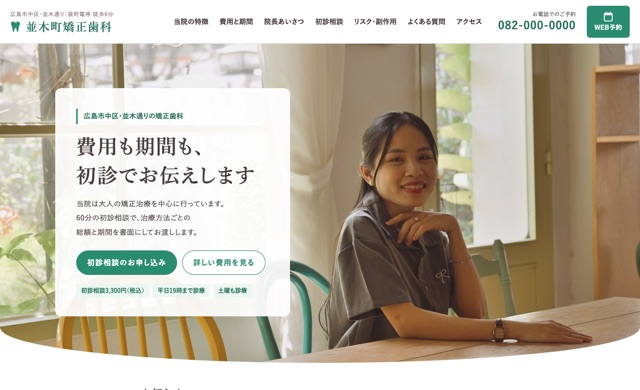
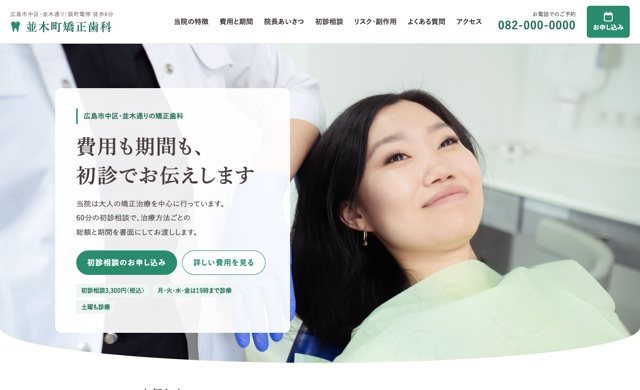
矯正歯科の見本を出し直す

diff --git a/lp-samples/sample7/index.html b/lp-samples/sample7/index.html
@@ -5,11 +5,11 @@
 <meta name="robots" content="noindex, nofollow">
 <meta name="viewport" content="width=device-width, initial-scale=1">
 <title>並木町矯正歯科｜広島市中区・並木通り 大人の矯正</title>
-<meta name="description" content="広島市中区・並木通りの矯正歯科。大人の矯正を中心に、初診相談（60分・3,300円）で、治療方法ごとの総額と期間を書面にしてお渡しします。平日19時まで・土曜も診療。袋町電停から徒歩6分。">
+<meta name="description" content="広島市中区・並木通りの矯正歯科。大人の矯正を中心に、初診相談（60分・3,300円）で、治療方法ごとの総額と期間を書面にしてお渡しします。月・火・水・金は19時まで、土曜も診療。袋町電停から徒歩6分。">
 <meta property="og:type" content="website">
 <meta property="og:site_name" content="並木町矯正歯科">
 <meta property="og:title" content="並木町矯正歯科｜広島市中区・並木通り 大人の矯正">
-<meta property="og:description" content="費用も期間も、初診の日に。平日19時まで・土曜も診療の矯正歯科です。">
+<meta property="og:description" content="費用も期間も、初診の日に。月・火・水・金は19時まで、土曜も診療の矯正歯科です。">
 <meta name="twitter:card" content="summary_large_image">
 <link rel="icon" href="https://cdn.jsdelivr.net/npm/@fortawesome/fontawesome-free@6.7.2/svgs/solid/tooth.svg" type="image/svg+xml">
 <link rel="stylesheet" href="https://cdnjs.cloudflare.com/ajax/libs/font-awesome/6.7.2/css/all.min.css" integrity="sha512-Evv84Mr4kqVGRNSgIGL/F/aIDqQb7xQ2vcrdIwxfjThSH8CSR7PBEakCr51Ck+w+/U6swU2Im1vVX0SVk9ABhg==" crossorigin="anonymous" referrerpolicy="no-referrer">
@@ -21,8 +21,8 @@
 </script>
 <style>
 /* 字と余白は、矯正歯科の実在113件の実測と、手本にした医院の数値から採った。
-   本文はゴシック16px・行間1.9、節の題は明朝33px・細字で下に英字、特徴は写真を大きく左右に振って英字を薄く重ねる。
-   上部に診療時間の表と案内図の札を置き、WEB予約は緑の四角いボタン。 */
+   本文はゴシック16px・行間1.9、節の題は明朝33px・細字で下に英字、特徴は写真を大きく左右に振る。
+   上部に診療時間の表と案内図の札を置き、初診相談のお申し込みは緑の四角いボタン。 */
 :root{
   --text:#3a3232;--head:#493f3f;--mute:#766c6c;--line:#e1e6e3;--bg:#fff;--mint:#eef6f2;--mint-d:#dcefe6;
   --green:#2a8c6e;--green-d:#1f6d55;--gold:#b69a5a;
@@ -107,8 +107,10 @@ ul,ol{padding:0;list-style:none}
 .TopInfo__tel a{text-decoration:none}
 .TopInfo__btns{display:grid;grid-template-columns:1fr 1fr;gap:10px;margin-top:16px}
 .TopInfo__btns .comBtn{min-width:0;padding:12px 10px;font-size:14px;border-radius:30px}
-.TopInfo__map{position:relative;background:#e9efec}
-.TopInfo__map iframe{display:block;width:100%;height:100%;min-height:360px}
+/* 地図が読み込まれない時に灰色の箱だけが残らないよう、iframeの下に最寄りの電停を敷く */
+.TopInfo__map{position:relative;min-height:360px;background:#e9efec}
+.TopInfo__map iframe{position:absolute;inset:0;display:block;width:100%;height:100%}
+.TopInfo__mapAlt{position:absolute;left:0;right:0;top:50%;transform:translateY(-50%);padding:0 20px;text-align:center;font-size:14px;color:var(--mute)}
 
 /* お悩み */
 .TopWorry__list{display:grid;grid-template-columns:1fr 1fr;gap:12px 30px;max-width:900px;margin:0 auto}
@@ -116,10 +118,10 @@ ul,ol{padding:0;list-style:none}
 .TopWorry__list a{display:block;padding:14px 44px 14px 50px;text-decoration:none}
 .TopWorry__list a:hover{color:var(--green-d)}
 .TopWorry__list a::after{content:"\f054";position:absolute;right:20px;top:50%;transform:translateY(-50%);font:900 12px/1 "Font Awesome 6 Free";color:var(--green)}
-.TopWorry__list li::before{content:"\f058";position:absolute;left:18px;top:19px;font:900 18px/1 "Font Awesome 6 Free";color:var(--green)}
+.TopWorry__list li::before{content:"\f059";position:absolute;left:18px;top:19px;font:900 18px/1 "Font Awesome 6 Free";color:var(--green)}
 .TopWorry__end{text-align:center;margin-top:30px;font-family:var(--mincho);font-size:22px;color:var(--head)}
 
-/* 当院の特徴。写真を大きく、英字を薄く重ねる */
+/* 当院の特徴。写真を大きく左右に振る */
 .TopFeature__item{position:relative;display:grid;grid-template-columns:58% 1fr;align-items:center;margin-bottom:90px}
 .TopFeature__item:nth-child(even){grid-template-columns:1fr 58%}
 .TopFeature__item:nth-child(even) .TopFeature__photo{order:2}
@@ -128,7 +130,6 @@ ul,ol{padding:0;list-style:none}
 .TopFeature__item:nth-child(even) .TopFeature__photo img{border-radius:24px 0 0 24px}
 .TopFeature__photo::after{content:"";position:absolute;left:30px;right:-30px;top:30px;bottom:-30px;z-index:-1;background:var(--mint-d);border-radius:0 24px 24px 0}
 .TopFeature__item:nth-child(even) .TopFeature__photo::after{left:-30px;right:30px;border-radius:24px 0 0 24px}
-.TopFeature__word{position:absolute;left:24px;bottom:10px;font-family:var(--en);font-size:62px;line-height:1;color:rgba(255,255,255,.85);text-shadow:0 1px 14px rgba(0,40,40,.45)}
 .TopFeature__body{padding:0 50px}
 .TopFeature__no{display:block;font-family:var(--en);font-size:18px;letter-spacing:.2em;color:var(--gold)}
 .TopFeature__no b{font-size:64px;font-weight:500;line-height:1;color:var(--mint-d);margin-left:6px}
@@ -278,7 +279,6 @@ ul,ol{padding:0;list-style:none}
   .TopFeature__item:nth-child(even) .TopFeature__photo{order:0}
   .TopFeature__photo::after{display:none}
   .TopFeature__photo img,.TopFeature__item:nth-child(even) .TopFeature__photo img{border-radius:16px}
-  .TopFeature__word{font-size:40px}
   .TopFeature__body{padding:24px 20px 0}
   .TopPrice__plans,.TopFlow,.TopPrice__photos,.TopFlow__photos{grid-template-columns:1fr}
   .TopPrice__common th,.TopPrice__common td{display:block;width:auto;border-top:0}
@@ -331,20 +331,20 @@ h1,h2,h3{text-wrap:balance}
       <a href="#access">アクセス</a>
     </nav>
     <p class="header__tel">お電話でのご予約<b><a href="tel:0820000000">082-000-0000</a></b></p>
-    <a class="header__webBtn" href="#reserve"><i class="fa-regular fa-calendar" aria-hidden="true"></i>WEB予約</a>
+    <a class="header__webBtn" href="#reserve"><i class="fa-regular fa-calendar" aria-hidden="true"></i>お申し込み</a>
     <button class="header__menuBtn" type="button" aria-label="メニュー" aria-expanded="false" aria-controls="gnav"><i class="fa-solid fa-bars" aria-hidden="true"></i></button>
   </div>
 </header>
 
 <main id="top">
 <section class="TopMv">
-  <img src="img/hero_smile.jpg" alt="窓辺の女性の笑顔" fetchpriority="high">
+  <img src="img/hero_smile.jpg" alt="診療台の患者さんと歯科医師" fetchpriority="high">
   <div class="TopMv__box">
     <p class="TopMv__tag">広島市中区・並木通りの矯正歯科</p>
     <h1>費用も期間も、<br>初診でお伝えします</h1>
     <p class="TopMv__lead">当院は大人の矯正治療を中心に行っています。<span class="nw">60分</span>の初診相談で、治療方法ごとの総額と期間を書面にしてお渡しします。</p>
     <div class="TopMv__btns"><a class="comBtn" href="#reserve">初診相談のお申し込み</a><a class="comBtn comBtn--line" href="#price">詳しい費用を見る</a></div>
-    <ul class="TopMv__badges"><li>初診相談3,300円（税込）</li><li>平日19時まで診療</li><li>土曜も診療</li></ul>
+    <ul class="TopMv__badges"><li>初診相談3,300円（税込）</li><li>月・火・水・金は19時まで診療</li><li>土曜も診療</li></ul>
   </div>
 </section>
 
@@ -352,7 +352,7 @@ h1,h2,h3{text-wrap:balance}
   <h2><span>NEWS</span>お知らせ</h2>
   <ul class="fade">
     <li><time datetime="2026-08-17">2026.08.17</time><em>休診</em><p><span class="nw">9月14日</span>（月）は休診します。</p></li>
-    <li><time datetime="2026-07-30">2026.07.30</time><em>設備</em><p>口腔内<span class="nw">スキャナー</span>を導入しました。従来の印象材を使わず、歯の形を読み取ります。</p></li>
+    <li><time datetime="2026-07-30">2026.07.30</time><em>設備</em><p>口腔内<span class="nw">スキャナー</span>を導入しました。精密検査で行う歯列の<span class="nw">スキャン</span>に、この機器を使います。</p></li>
     <li><time datetime="2026-07-02">2026.07.02</time><em>休診</em><p><span class="nw">8月13日</span>（木）から<span class="nw">8月16日</span>（日）まで休診します。</p></li>
     <li><time datetime="2026-06-10">2026.06.10</time><em>診療</em><p>平日の夕方にも初診相談の枠を設けました。</p></li>
   </ul>
@@ -370,11 +370,12 @@ h1,h2,h3{text-wrap:balance}
             <tr><th scope="row">14:30〜19:00</th><td class="on">●</td><td class="on">●</td><td class="on">●</td><td class="off">―</td><td class="on">●</td><td class="on">〜17:00</td><td class="off">―</td></tr>
           </tbody>
         </table>
-        <p class="TopInfo__note">休診日は木曜日・日曜日・祝日です。土曜の午後は17時までです。</p>
+        <p class="TopInfo__note">最終受付は診療終了の<span class="nw">30分</span>前（初診相談は<span class="nw">1時間</span>前）です。</p>
         <p class="TopInfo__tel"><span>お電話</span><b><a href="tel:0820000000">082-000-0000</a></b></p>
-        <div class="TopInfo__btns"><a class="comBtn" href="#reserve">初診相談のWEB予約</a><a class="comBtn comBtn--line" href="#access">アクセス</a></div>
+        <div class="TopInfo__btns"><a class="comBtn" href="#reserve">初診相談のお申し込み</a><a class="comBtn comBtn--line" href="#access">アクセス</a></div>
       </div>
       <div class="TopInfo__map">
+        <p class="TopInfo__mapAlt">広島電鉄・袋町電停から徒歩<span class="nw">6分</span></p>
         <iframe src="https://www.google.com/maps/embed?pb=!1m18!1m12!1m3!1d3292.3917492749156!2d132.45181708885497!3d34.3913874!2m3!1f0!2f0!3f0!3m2!1i1024!2i768!4f13.1!3m3!1m2!1s0x355aa21273dbe56b%3A0x762c82653c8756de!2z6KKL55S66aeF!5e0!3m2!1sja!2sjp!4v1790602644900!5m2!1sja!2sjp" width="600" height="450" style="border:0;" allowfullscreen="" loading="lazy" referrerpolicy="strict-origin-when-cross-origin" title="袋町電停周辺の地図"></iframe>
       </div>
     </div>
@@ -388,8 +389,8 @@ h1,h2,h3{text-wrap:balance}
       <li><a href="#price">矯正の費用はいくらかかりますか？</a></li>
       <li><a href="#appliance">矯正装置は目立ちますか？</a></li>
       <li><a href="#price">治療期間はどのくらいかかりますか？</a></li>
-      <li><a href="#faq">年齢の上限はありますか？</a></li>
-      <li><a href="#faq">抜歯は必要ですか？</a></li>
+      <li><a href="#faq-age">年齢の上限はありますか？</a></li>
+      <li><a href="#faq-extraction">抜歯は必要ですか？</a></li>
       <li><a href="#flow">相談した当日に治療を決める必要がありますか？</a></li>
     </ul>
     <p class="TopWorry__end fade">費用や期間、装置の見え方など、気になっていることは初診相談でお聞かせください。</p>
@@ -400,20 +401,20 @@ h1,h2,h3{text-wrap:balance}
   <h2 class="headLine01"><span>FEATURES</span>当院の4つの特徴</h2>
   <div class="TopFeature">
     <div class="TopFeature__item fade">
-      <figure class="TopFeature__photo"><img src="img/counsel.jpg" alt="クリップボードの白紙とペン" loading="lazy"><span class="TopFeature__word" aria-hidden="true">Estimate</span></figure>
+      <figure class="TopFeature__photo"><img src="img/counsel.jpg" alt="クリップボードの白紙とペン" loading="lazy"></figure>
       <div class="TopFeature__body"><span class="TopFeature__no">POINT<b>01</b></span><h3>総額と<br>治療期間のご提示</h3><p>装置代、調整料、装置を外したあとの保定にかかる費用まで含めた総額をお伝えします。書面には、ご相談の内容から考えられる治療方法ごとの総額と、治療期間・通院回数の目安を記載します。</p></div>
     </div>
     <div class="TopFeature__item fade">
-      <figure class="TopFeature__photo"><img src="img/scan.jpg" alt="模型スキャナーと歯列の3D画像を映したモニター" loading="lazy"><span class="TopFeature__word" aria-hidden="true">Diagnosis</span></figure>
-      <div class="TopFeature__body"><span class="TopFeature__no">POINT<b>02</b></span><h3>精密検査と<br>診断</h3><p>頭部X線規格写真（<span class="nw">セファロ</span>）の撮影と口腔内の<span class="nw">スキャン</span>を行います。顎の骨格と歯の傾きを調べます。検査の結果をもとに、抜歯の必要性も含めて治療計画を立てます。</p></div>
+      <figure class="TopFeature__photo"><img src="img/scan.jpg" alt="装置をつけた歯列の口腔内スキャン" loading="lazy"></figure>
+      <div class="TopFeature__body"><span class="TopFeature__no">POINT<b>02</b></span><h3>精密検査と<br>診断</h3><p><span class="nw">パノラマ</span>X線写真、頭部X線規格写真（<span class="nw">セファロ</span>）、口腔内写真の撮影と歯列の<span class="nw">スキャン</span>を行い、顎の骨格と歯の傾きを調べます。検査の結果をもとに、抜歯の必要性も含めて治療計画を立てます。</p></div>
     </div>
     <div class="TopFeature__item fade" id="appliance">
-      <figure class="TopFeature__photo"><img src="img/aligner.jpg" alt="マウスピース型の矯正装置" loading="lazy"><span class="TopFeature__word" aria-hidden="true">Appliance</span></figure>
-      <div class="TopFeature__body"><span class="TopFeature__no">POINT<b>03</b></span><h3>目立ちにくい<br>装置</h3><p>歯の裏側につける装置は、会話中や笑顔のときでも見えにくいのが特徴です。<span class="nw">マウスピース</span>型は透明で、取り外しもできます。</p></div>
+      <figure class="TopFeature__photo"><img src="img/aligner.jpg" alt="マウスピース型の矯正装置の装着" loading="lazy"></figure>
+      <div class="TopFeature__body"><span class="TopFeature__no">POINT<b>03</b></span><h3>目立ちにくい<br>装置</h3><p>表側の装置には、透明な<span class="nw">ブラケット</span>を使用しています。歯の裏側につける装置は、会話中や笑顔のときでも見えにくいのが特徴です。<span class="nw">マウスピース</span>型は透明で、取り外しもできます。</p></div>
     </div>
     <div class="TopFeature__item fade">
-      <figure class="TopFeature__photo"><img src="img/clinic.jpg" alt="個室の診療室" loading="lazy"><span class="TopFeature__word" aria-hidden="true">Schedule</span></figure>
-      <div class="TopFeature__body"><span class="TopFeature__no">POINT<b>04</b></span><h3>平日19時まで・<br>土曜も診療</h3><p>平日は<span class="nw">19時</span>まで、土曜は<span class="nw">17時</span>まで診療しています。お仕事帰りにも通いやすくなっています。</p></div>
+      <figure class="TopFeature__photo"><img src="img/clinic.jpg" alt="個室の診療室" loading="lazy"></figure>
+      <div class="TopFeature__body"><span class="TopFeature__no">POINT<b>04</b></span><h3>治療中と保定期間中の<br>定期的な<span class="nw">チェック</span></h3><p>治療中は、通院のたびに歯が計画どおりに動いているか確認します。装置を外したあとの保定期間中も、<span class="nw">3〜6か月</span>に<span class="nw">1度</span>の通院で、歯並びに変化がないか確認します。</p></div>
     </div>
   </div>
 </section>
@@ -429,31 +430,31 @@ h1,h2,h3{text-wrap:balance}
         <li>連続した3歯以上の先天性欠如歯に起因した咬合異常（<span class="nw">18歳</span>未満に限る）</li>
         <li>顎変形症（顎離断等の手術を必要とするものに限る）</li>
       </ol>
-      <p>保険が適用される矯正治療を行えるのは、地方厚生（支）局長に届け出た保険医療機関に限られます。保険の対象になる場合は、初診相談でお伝えします。</p>
+      <p>保険が適用される矯正治療を行えるのは、地方厚生（支）局長に届け出た保険医療機関に限られます。当院はこの届出をしていません。保険の対象になる場合は初診相談でお伝えし、届出をした医療機関をご紹介します。</p>
     </div>
     <div class="TopPrice__plans">
       <div class="TopPrice__plan fade"><div class="TopPrice__head"><h3>全体矯正（表側）</h3><p>歯の表面に小さな装置（<span class="nw">ブラケット</span>）と<span class="nw">ワイヤー</span>をつけます</p></div><div class="TopPrice__body"><p class="TopPrice__label">装置代</p><p class="TopPrice__price">770,000<small>円</small></p><dl><div><dt>期間</dt><dd><span class="nw">1年</span><span class="nw">10か月</span>〜<span class="nw">2年</span><span class="nw">9か月</span></dd></div><div><dt>通院</dt><dd>4週に<span class="nw">1回</span>・<span class="nw">24〜36回</span></dd></div></dl><p class="TopPrice__total">総額の目安<b><span class="nw">998,800〜1,064,800円</span></b></p></div></div>
       <div class="TopPrice__plan fade"><div class="TopPrice__head"><h3>全体矯正（裏側）</h3><p>歯の裏側につけるため、装置が正面から見えにくくなります</p></div><div class="TopPrice__body"><p class="TopPrice__label">装置代</p><p class="TopPrice__price">1,100,000<small>円</small></p><dl><div><dt>期間</dt><dd><span class="nw">1年</span><span class="nw">10か月</span>〜<span class="nw">2年</span><span class="nw">9か月</span></dd></div><div><dt>通院</dt><dd>4週に<span class="nw">1回</span>・<span class="nw">24〜36回</span></dd></div></dl><p class="TopPrice__total">総額の目安<b><span class="nw">1,328,800〜1,394,800円</span></b></p></div></div>
       <div class="TopPrice__plan fade"><div class="TopPrice__head"><h3><span class="nw">マウスピース</span>型（全体）</h3><p>取り外せる透明な装置です（<a href="#pmda" style="color:#fff">薬機法の承認を受けていません</a>）</p></div><div class="TopPrice__body"><p class="TopPrice__label">装置代</p><p class="TopPrice__price">660,000<small>円</small></p><dl><div><dt>期間</dt><dd><span class="nw">1年</span><span class="nw">5か月</span>〜<span class="nw">3年</span><span class="nw">1か月</span></dd></div><div><dt>通院</dt><dd>6〜8週に<span class="nw">1回</span>・<span class="nw">12〜20回</span></dd></div></dl><p class="TopPrice__total">総額の目安<b><span class="nw">822,800〜866,800円</span></b></p></div></div>
-      <div class="TopPrice__plan fade"><div class="TopPrice__head"><h3>部分矯正（前歯）</h3><p>前歯など一部の歯だけを整える治療方法です（適応かどうかは精密検査で判断します）</p></div><div class="TopPrice__body"><p class="TopPrice__label">装置代</p><p class="TopPrice__price">330,000<small>円</small></p><dl><div><dt>期間</dt><dd><span class="nw">6か月</span>〜<span class="nw">1年</span><span class="nw">1か月</span></dd></div><div><dt>通院</dt><dd>4週に<span class="nw">1回</span>・<span class="nw">6〜14回</span></dd></div></dl><p class="TopPrice__total">総額の目安<b><span class="nw">459,800〜503,800円</span></b></p></div></div>
+      <div class="TopPrice__plan fade"><div class="TopPrice__head"><h3>部分矯正（前歯）</h3><p>一部の歯だけを整える治療方法です（適応かどうかは精密検査で判断します）</p></div><div class="TopPrice__body"><p class="TopPrice__label">装置代</p><p class="TopPrice__price">330,000<small>円</small></p><dl><div><dt>期間</dt><dd><span class="nw">6か月</span>〜<span class="nw">1年</span><span class="nw">1か月</span></dd></div><div><dt>通院</dt><dd>4週に<span class="nw">1回</span>・<span class="nw">6〜14回</span></dd></div></dl><p class="TopPrice__total">総額の目安<b><span class="nw">459,800〜503,800円</span></b></p></div></div>
     </div>
     <div class="TopPrice__common fade">
       <h3>装置代以外の費用</h3>
       <table>
-        <tr><th scope="row">初診相談</th><td><b><span class="nw">3,300円</span>（税込）</b>／<span class="nw">60分</span>。口腔内の確認と写真の撮影を行います。</td></tr>
-        <tr><th scope="row">精密検査・診断</th><td><b><span class="nw">44,000円</span>（税込）</b>／<span class="nw">1回</span>。<span class="nw">セファロ</span>と口腔内写真の撮影、口腔内の<span class="nw">スキャン</span>を行い、治療計画をご説明します。</td></tr>
-        <tr><th scope="row">調整料</th><td><b><span class="nw">5,500円</span>（税込）</b>／<span class="nw">1回</span>。装置をつけている間、通院のたびにいただきます。</td></tr>
-        <tr><th scope="row">保定装置</th><td><b><span class="nw">33,000円</span>（税込）</b>／上下1組。装置を外したあとの後戻りを防ぐために装着していただきます。</td></tr>
-        <tr><th scope="row">保定中の通院</th><td><b><span class="nw">3,300円</span>（税込）</b>／<span class="nw">1回</span>。通院の間隔は<span class="nw">3〜6か月</span>です。</td></tr>
+        <tr><th scope="row">初診相談</th><td><b><span class="nw">3,300円</span></b>／<span class="nw">60分</span>。口腔内の確認と写真の撮影を行います。</td></tr>
+        <tr><th scope="row">精密検査・診断</th><td><b><span class="nw">44,000円</span></b>／<span class="nw">1回</span>。<span class="nw">パノラマ</span>X線写真・<span class="nw">セファロ</span>・口腔内写真の撮影と歯列の<span class="nw">スキャン</span>を行い、治療計画をご説明します。</td></tr>
+        <tr><th scope="row">調整料</th><td><b><span class="nw">5,500円</span></b>／<span class="nw">1回</span>。装置をつけている間、通院のたびにいただきます。</td></tr>
+        <tr><th scope="row">保定装置</th><td><b><span class="nw">33,000円</span></b>／上下1組。装置を外したあとの後戻りを防ぐために装着していただきます。</td></tr>
+        <tr><th scope="row">保定中の通院</th><td><b><span class="nw">3,300円</span></b>／<span class="nw">1回</span>。通院の間隔は<span class="nw">3〜6か月</span>です。</td></tr>
       </table>
       <p class="note">総額の目安は、初診相談から保定中の通院までにかかる費用の合計で、保定中の通院<span class="nw">5回</span>分を含みます。保定中の通院の回数は、経過によって変わります。抜歯を行う場合は、連携先の歯科医院での費用が別途かかります。1本あたり<span class="nw">5,500円から11,000円</span>が目安です。</p>
-      <p class="note">精密検査の費用は検査の当日に、装置代は装置をつける日にいただきます。調整料と保定中の通院の費用は、通院のたびにいただきます。現金・<span class="nw">クレジットカード</span>・<span class="nw">デンタルローン</span>をご利用いただけます。</p>
-      <p class="note">期間と通院回数は、<span class="nw">2023年</span>から<span class="nw">2025年</span>に当院で治療を終えた<span class="nw">112名</span>（表側と裏側<span class="nw">64名</span>／<span class="nw">マウスピース</span>型<span class="nw">31名</span>／部分矯正<span class="nw">17名</span>）の実績に基づく範囲です。治療の効果には個人差があります。記載の期間や回数を保証するものではありません。</p>
+      <p class="note">初診相談の費用はご相談の当日に、精密検査の費用は検査の当日にいただきます。装置代と保定装置の費用はそれぞれの装置をつける日にいただきます。調整料と保定中の通院の費用は、ご来院のたびにいただきます。現金・<span class="nw">クレジットカード</span>・<span class="nw">デンタルローン</span>をご利用いただけます。</p>
+      <p class="note">期間と通院回数は、<span class="nw">2023年</span>から<span class="nw">2025年</span>に当院で治療を終えた<span class="nw">112名</span>（表側と裏側<span class="nw">64名</span>／<span class="nw">マウスピース</span>型<span class="nw">31名</span>／部分矯正<span class="nw">17名</span>）の実績に基づく範囲です。<span class="nw">8割</span>の方が、この範囲で治療を終えました。治療の効果には個人差があります。記載の期間や回数を保証するものではありません。</p>
     </div>
     <div class="TopPrice__photos">
       <figure class="fade"><img src="img/braces.jpg" alt="表側の装置をつけた歯" loading="lazy"><figcaption>表側の装置の<span class="nw">イメージ</span>です（当院の症例写真ではありません）</figcaption></figure>
-      <figure class="fade"><img src="img/aligner_case.jpg" alt="上下のマウスピースとケース" loading="lazy"><figcaption><span class="nw">マウスピース</span>型の装置の例</figcaption></figure>
-      <figure class="fade"><img src="img/counsel_room.jpg" alt="相談室の丸テーブルといす" loading="lazy"><figcaption>費用のご説明は、診療台とは別の相談室で行います</figcaption></figure>
+      <figure class="fade"><img src="img/aligner_case.jpg" alt="上下のマウスピースとケース" loading="lazy"><figcaption><span class="nw">マウスピース</span>型の装置の<span class="nw">イメージ</span>です（当院の症例写真ではありません）</figcaption></figure>
+      <figure class="fade"><img src="img/counsel_room.jpg" alt="相談室の机といす" loading="lazy"><figcaption>費用のご説明は、診療台とは別の相談室で行います</figcaption></figure>
     </div>
   </div>
 </section>
@@ -462,20 +463,20 @@ h1,h2,h3{text-wrap:balance}
   <div class="inner">
     <h2 class="headLine01"><span>GREETING</span>院長あいさつ</h2>
     <div class="TopGreet">
-      <img class="fade" src="img/director.jpg" alt="診療台の患者と白衣の歯科医師" loading="lazy">
+      <img class="fade" src="img/director.jpg" alt="歯列模型につけた表側の装置と、マウスピース型の装置" loading="lazy">
       <div class="fade">
         <h3>はじめまして。<br>院長の三好文恵です。</h3>
         <p>並木町矯正歯科は<span class="nw">2019年</span>に開院しました。</p>
         <p>治療が進むにつれて、歯の位置は少しずつ変わっていきます。その変化を患者さんと一緒に確かめる時間を、この仕事でいちばん大切にしています。</p>
-        <p>何年かあとに「始めてよかった」と思っていただけるよう、装置を外したあとの保定期間中も、通院のたびに歯の動きを記録し、治療計画と見比べています。</p>
+        <p>何年かあとに「始めてよかった」と思っていただけるよう、保定期間中も、通院のたびに歯の動きを記録し、装置を外したときの記録と見比べています。</p>
         <p class="TopGreet__name">院長<b>三好 文恵</b></p>
         <dl class="TopGreet__career">
-          <div><dt><span class="nw">2008年3月</span></dt><dd>歯学部を卒業</dd></div>
-          <div><dt><span class="nw">2008年4月</span></dt><dd>大学病院で歯科医師臨床研修を修了</dd></div>
-          <div><dt><span class="nw">2009年4月</span></dt><dd>大学病院の矯正歯科に入局</dd></div>
+          <div><dt><span class="nw">2008年3月</span></dt><dd>○○大学歯学部を卒業</dd></div>
+          <div><dt><span class="nw">2009年3月</span></dt><dd>○○大学病院で歯科医師臨床研修を修了</dd></div>
+          <div><dt><span class="nw">2009年4月</span></dt><dd>○○大学病院の矯正歯科に入局</dd></div>
           <div><dt><span class="nw">2014年4月</span></dt><dd>広島市内の歯科医院に勤務</dd></div>
           <div><dt><span class="nw">2019年5月</span></dt><dd>並木町矯正歯科を開院</dd></div>
-          <div><dt><span class="nw">2024年4月</span></dt><dd>日本歯科専門医機構認定　矯正歯科専門医を取得</dd></div>
+          <div><dt><span class="nw">2024年4月</span></dt><dd>日本歯科専門医機構認定　矯正歯科専門医の資格を取得</dd></div>
         </dl>
       </div>
     </div>
@@ -536,10 +537,10 @@ h1,h2,h3{text-wrap:balance}
       <h3>マウスピース型の装置について</h3>
       <ul>
         <li><b>未承認の医療機器であること</b><p>当院で使う<span class="nw">マウスピース</span>型の矯正装置は、医薬品医療機器等法（薬機法）の承認を受けていない医療機器です。</p></li>
-        <li><b>入手の経路</b><p>国外の製造元の製品を、歯科医師が個人輸入の手続き（輸入確認証の取得）で取り寄せています。個人輸入の注意点は、厚生労働省の<span class="nw">ページ</span>「<a href="https://www.yakubutsu.mhlw.go.jp/individualimport/healthhazard/">個人輸入において注意すべき医薬品等について</a>」に掲載されています。</p></li>
-        <li><b>国内の承認品</b><p>同じ目的で使う<span class="nw">マウスピース</span>型の装置にも、国内の承認を受けたものがあります（独立行政法人医薬品医療機器総合機構の<span class="nw">ウェブサイト</span>で<span class="nw">2026年8月</span>に確認）。ご希望があれば、その装置での費用と期間もお伝えします。</p></li>
-        <li><b>国外での承認と安全性</b><p>製造元が公表する添付文書と安全性情報（<span class="nw">2026年8月</span>確認）によると、欧州で<span class="nw">2018年3月</span>に、米国で<span class="nw">2019年6月</span>に医療機器として販売が認められています。添付文書には、重大な副作用として装置の誤飲と材料に対する過敏症が挙げられています。国外で報告された副作用は、歯ぐきの痛みと口内炎が主なものです。</p></li>
-        <li><b>救済制度の対象外</b><p>この装置による健康被害は、医薬品副作用被害救済制度と生物由来製品感染等被害救済制度（健康被害が起きたときに公的な給付がある制度）の対象になりません。</p></li>
+        <li><b>入手の経路</b><p>国外の製造元の製品を、当院の歯科医師が個人輸入の手続き（輸入確認証の取得）で取り寄せています。個人輸入の注意点は、厚生労働省の<span class="nw">ページ</span>「<a href="https://www.yakubutsu.mhlw.go.jp/individualimport/healthhazard/">個人輸入において注意すべき医薬品等について</a>」に掲載されています。</p></li>
+        <li><b>国内の承認品</b><p>国内にも、<span class="nw">マウスピース</span>型の矯正装置として薬機法の承認を受けているものがあります（独立行政法人医薬品医療機器総合機構の<span class="nw">ウェブサイト</span>で<span class="nw">2026年8月</span>に確認）。ご希望があれば、その装置での費用と期間もお伝えします。</p></li>
+        <li><b>国外での承認と安全性</b><p>製造元が公表する添付文書と安全性情報（<span class="nw">2026年8月</span>確認）によると、欧州では<span class="nw">2018年3月</span>にCE<span class="nw">マーク</span>を取得し、米国では<span class="nw">2019年6月</span>に医療機器として販売が認められています。添付文書には、重大な副作用として装置の誤飲と材料に対する過敏症が挙げられています。国外で報告された主な副作用は、歯ぐきの痛みと口内炎です。</p></li>
+        <li><b>救済制度の対象外</b><p>この装置による健康被害は、医薬品副作用被害救済制度と生物由来製品感染等被害救済制度（公的な給付を受けられる制度）の対象になりません。</p></li>
       </ul>
     </div>
   </div>
@@ -549,13 +550,14 @@ h1,h2,h3{text-wrap:balance}
   <div class="inner">
     <h2 class="headLine01"><span>FAQ</span>よくある質問</h2>
     <div class="TopFaq__list">
-      <details class="TopFaq__list__item fade"><summary class="TopFaq__list__q">矯正治療は何歳まで可能ですか？</summary><p class="TopFaq__list__a">矯正治療に年齢制限はありません。<span class="nw">2023年</span>から<span class="nw">2025年</span>に当院で治療を終えた<span class="nw">112名</span>のうち、<span class="nw">40歳</span>以上の方は<span class="nw">29名</span>です。歯ぐきと歯を支える骨の状態を精密検査で確認したうえで、治療方法をご提案します。</p></details>
-      <details class="TopFaq__list__item fade"><summary class="TopFaq__list__q">治療を中止した場合、費用はどうなりますか？</summary><p class="TopFaq__list__a">装置をつける前であれば、初診相談と精密検査の費用だけをいただきます。装置をつけたあとに中止する場合は、お支払いいただいた装置代を治療の進行状態に応じて精算し、未実施の分をお返しします。精算の方法は、初診相談でお渡しする書面に記載しています。</p></details>
-      <details class="TopFaq__list__item fade"><summary class="TopFaq__list__q">治療中に引っ越すことになったら、治療は続けられますか？</summary><p class="TopFaq__list__a">転居先の矯正歯科をご紹介します。紹介状とこれまでの検査の記録をお送りし、転居先で治療を引き継いでいただけるよう手続きを行います。装置代は、中止の場合と同じ方法で精算します。</p></details>
-      <details class="TopFaq__list__item fade"><summary class="TopFaq__list__q">抜歯はどのような基準で判断しますか？</summary><p class="TopFaq__list__a">歯を並べるスペースが顎に足りない場合に、抜歯をご提案することがあります。精密検査で歯の大きさと顎の幅を測ってから決めます。<span class="nw">2023年</span>から<span class="nw">2025年</span>に治療を終えた<span class="nw">112名</span>のうち、抜歯をした方は<span class="nw">38名</span>です。</p></details>
-      <details class="TopFaq__list__item fade"><summary class="TopFaq__list__q">矯正の費用は、医療費控除の対象になりますか？</summary><p class="TopFaq__list__a">年齢や目的からみて必要と認められる矯正の費用は、医療費控除の対象となります。見た目を整えることが目的の場合は対象になりません。<span class="nw">デンタルローン</span>でお支払いの場合は、信販会社が立て替えた金額が、<span class="nw">ローン</span>を組んだ年分の医療費控除の対象になります。金利と手数料は含まれません（国税庁<span class="nw">タックスアンサー</span>No.1128、<span class="nw">2026年4月1日</span>現在の法令による）。控除の対象になるかどうかは、所轄の税務署にご確認ください。</p></details>
+      <details class="TopFaq__list__item fade" id="faq-age"><summary class="TopFaq__list__q">矯正治療は何歳まで可能ですか？</summary><p class="TopFaq__list__a">矯正治療に年齢制限はありません。<span class="nw">2023年</span>から<span class="nw">2025年</span>に当院で治療を終えた<span class="nw">112名</span>のうち、<span class="nw">40歳</span>以上の方は<span class="nw">29名</span>です。歯ぐきと歯を支える骨の状態を精密検査で確認したうえで、治療方法をご提案します。</p></details>
+      <details class="TopFaq__list__item fade"><summary class="TopFaq__list__q">治療を中止した場合、費用はどうなりますか？</summary><p class="TopFaq__list__a">装置をつける前であれば、初診相談と精密検査の費用だけをいただきます。装置をつけたあとに中止する場合は、お支払いいただいた装置代を治療の進行状態に応じて精算し、まだ行っていない分の費用をお返しします。精算の方法は、初診相談でお渡しする書面に記載しています。</p></details>
+      <details class="TopFaq__list__item fade"><summary class="TopFaq__list__q">治療中に引っ越すことになったら、治療は続けられますか？</summary><p class="TopFaq__list__a">転居先の矯正歯科をご紹介します。紹介状とこれまでの検査の記録をお送りし、転居先の医院で治療を続けられるよう手続きを行います。装置代は、中止の場合と同じ方法で精算します。</p></details>
+      <details class="TopFaq__list__item fade" id="faq-extraction"><summary class="TopFaq__list__q">抜歯はどのような基準で判断しますか？</summary><p class="TopFaq__list__a">歯を並べる<span class="nw">スペース</span>が顎に足りない場合に、抜歯をご提案することがあります。精密検査で歯の大きさと顎の幅を測ってから決めます。<span class="nw">2023年</span>から<span class="nw">2025年</span>に治療を終えた<span class="nw">112名</span>のうち、抜歯をした方は<span class="nw">38名</span>です。</p></details>
+      <details class="TopFaq__list__item fade"><summary class="TopFaq__list__q">矯正の費用は、医療費控除の対象になりますか？</summary><p class="TopFaq__list__a">年齢や目的からみて必要と認められる矯正の費用は、医療費控除の対象となります。見た目を整えることが目的の場合は対象になりません。<span class="nw">デンタルローン</span>でお支払いの場合は、信販会社が立替払をした金額が、その立替払をした年の医療費控除の対象になります。金利と手数料は含まれません（国税庁<span class="nw">タックスアンサー</span>No.1128、<span class="nw">2026年4月1日</span>現在の法令による）。控除の対象になるかどうかは、所轄の税務署にご確認ください。</p></details>
       <details class="TopFaq__list__item fade"><summary class="TopFaq__list__q">分割払いはできますか？</summary><p class="TopFaq__list__a">提携している信販会社の<span class="nw">デンタルローン</span>で、<span class="nw">最大60回</span>の分割払いをご利用いただけます。実質年率は<span class="nw">4.5%</span>で、<span class="nw">ローン</span>の審査があります。たとえば表側の装置代<span class="nw">770,000円</span>を<span class="nw">60回</span>でお支払いの場合、月々<span class="nw">14,356円</span>、支払総額は<span class="nw">861,360円</span>（うち手数料<span class="nw">91,360円</span>）です。手数料の計算方法と遅延損害金の率は、信販会社の契約書面に記載されています。</p></details>
-      <details class="TopFaq__list__item fade"><summary class="TopFaq__list__q">矯正中の食事に制限はありますか？</summary><p class="TopFaq__list__a">表側と裏側の装置の場合、硬いものや粘着性の強いものを食べると、装置が外れることがあります。小さく切ってお召し上がりください。<span class="nw">マウスピース</span>型の場合は、食事のときに外し、歯を磨いてからつけ直してください。</p></details>
+      <details class="TopFaq__list__item fade"><summary class="TopFaq__list__q">矯正中の食事に制限はありますか？</summary><p class="TopFaq__list__a">表側と裏側の装置が歯についている間は、硬いもの（せんべい等の硬いお菓子、<span class="nw">ナッツ</span>類）や装置にからみやすいもの（<span class="nw">キャラメル</span>、ガム等）は、できるだけ避けてください。<span class="nw">マウスピース</span>型の場合は、食事のときに外し、歯を磨いてからつけ直してください。</p></details>
+      <details class="TopFaq__list__item fade"><summary class="TopFaq__list__q">装置が外れたときはどうしたらいいですか？</summary><p class="TopFaq__list__a">診療時間内にお電話ください。状況を確認して、ご来院の日時をご案内します。痛みが強い場合は急患としてその日のうちに診察します。外れた部品は、ご来院の際にお持ちください。</p></details>
     </div>
   </div>
 </section>
@@ -564,12 +566,12 @@ h1,h2,h3{text-wrap:balance}
   <div class="inner">
     <h2 class="headLine01"><span>ACCESS</span><span class="nw">アクセス</span></h2>
     <div class="TopAccess">
-      <figure class="fade"><img src="img/entrance.jpg" alt="木の枠のガラス戸の入口" loading="lazy"><figcaption><span class="nw">1階</span>の<span class="nw">ガラス</span>戸が入口です</figcaption></figure>
+      <figure class="fade"><img src="img/entrance.jpg" alt="金属枠のガラス張りの入口" loading="lazy"><figcaption><span class="nw">1階</span>の<span class="nw">ガラス</span>戸が入口です</figcaption></figure>
       <dl class="fade">
         <div><dt>所在地</dt><dd>広島市中区○○町0-0-0 ○○ビル1階（架空の住所です）</dd></div>
         <div><dt>電車</dt><dd>広島電鉄・袋町電停から徒歩<span class="nw">6分</span>です。当院の向かいは青い看板の薬局です。</dd></div>
-        <div><dt>駐車場</dt><dd>近隣の<span class="nw">コインパーキング</span>をご利用ください。<span class="nw">1時間</span>分の駐車券をお渡しします。</dd></div>
-        <div><dt>設備</dt><dd>診療台<span class="nw">3台</span>・<span class="nw">セファロ</span>の撮影装置・口腔内<span class="nw">スキャナー</span></dd></div>
+        <div><dt>駐車場</dt><dd>提携の「○○<span class="nw">パーキング</span>」をご利用いただいた場合、<span class="nw">1時間</span>の無料<span class="nw">サービス</span>券をお渡しします。</dd></div>
+        <div><dt>設備</dt><dd>診療台<span class="nw">3台</span>・<span class="nw">パノラマ</span>・<span class="nw">セファロ</span>の撮影装置・口腔内<span class="nw">スキャナー</span></dd></div>
         <div><dt>お電話</dt><dd>082-000-0000（診療時間内）</dd></div>
       </dl>
     </div>
@@ -578,7 +580,7 @@ h1,h2,h3{text-wrap:balance}
 
 <section class="sec sec--mint" id="reserve">
   <div class="inner">
-    <h2 class="headLine01"><span>RESERVATION</span>初診相談のご予約</h2>
+    <h2 class="headLine01"><span>RESERVATION</span>初診相談のお申し込み</h2>
     <div class="TopReserve">
       <form class="TopReserve__form fade" id="reserve-form">
         <label for="r-name">お名前</label>
@@ -598,9 +600,9 @@ h1,h2,h3{text-wrap:balance}
         </fieldset>
         <label for="r-note">ご相談内容（任意）</label>
         <textarea id="r-note"></textarea>
-        <button class="comBtn" type="submit">予約を申し込む</button>
-        <p class="TopReserve__note">空き状況を確認のうえ、確定のご連絡をします。日時の変更・取り消しをご希望の場合は、お電話でお知らせください。この<span class="nw">ページ</span>は見本のため、予約は届きません。</p>
-        <p class="TopReserve__note">お名前・ご連絡先・ご相談内容は、初診相談の予約の確認と連絡にのみ使用します。ご本人の同意なく第三者へ提供することはありません。ご記入いただいた内容の確認・訂正・削除のご希望は、お電話（082-000-0000）で承ります。</p>
+        <button class="comBtn" type="submit">申し込む</button>
+        <p class="TopReserve__note">空き状況を確認のうえ、確定のご連絡をします。日時の変更・取り消しをご希望の場合は、お電話でお知らせください。この<span class="nw">ページ</span>は見本のため、お申し込みは届きません。</p>
+        <p class="TopReserve__note">お名前・ご連絡先・ご相談内容は、初診相談のお申し込みの確認と連絡にのみ使用します。ご本人の同意なく第三者へ提供することはありません。ご記入いただいた内容の確認・訂正・削除のご希望は、お電話（082-000-0000）で承ります。</p>
       </form>
       <div class="TopReserve__side fade">
         <p>お電話でのご予約・ご相談</p>
@@ -629,7 +631,7 @@ h1,h2,h3{text-wrap:balance}
   <p class="footer__copyright">© Namikicho Orthodontic Clinic</p>
 </footer>
 
-<div class="spFixBar"><a href="tel:0820000000">電話で予約</a><a href="#reserve">WEB予約</a></div>
+<div class="spFixBar"><a href="tel:0820000000">電話で予約</a><a href="#reserve">初診相談のお申し込み</a></div>
 
 <script>
 (function(){

diff --git a/lp-samples/sample7/img/CREDITS.md b/lp-samples/sample7/img/CREDITS.md
@@ -10,29 +10,30 @@ CC BYは表示が条件なので、実案件で流用する時は下の表示を
 
 | ファイル | 使用箇所 | 取得元 | 作者 | ライセンス | 写真のページ |
 |---|---|---|---|---|---|
-| hero_smile.jpg | 最初の画面（窓辺の女性の笑顔） | Pexels | Việt Anh Nguyễn | Pexels License | https://www.pexels.com/photo/smiling-woman-sitting-in-sunlit-cafe-33482948/ |
+| hero_smile.jpg | 最初の画面（診療台の患者さんと歯科医師） | Pexels | Nadezhda Moryak | Pexels License | https://www.pexels.com/photo/a-woman-on-a-dental-chair-7803063/ |
 | counsel.jpg | 当院の4つの特徴の01（クリップボードの白紙とペン） | Pexels | Monstera Production | Pexels License | https://www.pexels.com/photo/blank-paper-on-a-clipboard-9480111/ |
-| scan.jpg | 当院の4つの特徴の02（模型スキャナーと歯列の3D画像を映したモニター） | Pexels | Ivan Babydov | Pexels License | https://www.pexels.com/photo/unrecognizable-specialist-working-on-computer-in-modern-dental-clinic-7788368/ |
-| aligner.jpg | 当院の4つの特徴の03（マウスピース型の矯正装置） | Unsplash | Geniova Technologies | Unsplash License | https://unsplash.com/photos/irPpXQF5bSI |
-| clinic.jpg | 当院の4つの特徴の04（個室の診療室） | Unsplash | Kari Bjorn Photography | Unsplash License | https://unsplash.com/photos/Fdku_oMrDvk |
+| scan.jpg | 当院の4つの特徴の02（装置をつけた歯列の口腔内スキャン） | Unsplash | Quang Tri NGUYEN | Unsplash License | https://unsplash.com/photos/objNAvixRho |
+| aligner.jpg | 当院の4つの特徴の03（マウスピース型の矯正装置の装着） | Unsplash | Diana Polekhina | Unsplash License | https://unsplash.com/photos/fmB7IdFjhTM |
+| clinic.jpg | 当院の4つの特徴の04（個室の診療室） | Pexels | Tima Miroshnichenko | Pexels License | https://www.pexels.com/photo/a-clinic-with-dental-equipment-5355920/ |
 | braces.jpg | 費用と期間の写真の1枚目（表側の装置をつけた歯） | ウィキメディア・コモンズ | Tamaki Sono | CC BY 2.0 | https://commons.wikimedia.org/wiki/File:2015-03-10_teeth_wearing_dental_braces.jpg |
 | aligner_case.jpg | 費用と期間の写真の2枚目（上下のマウスピースとケース） | Unsplash | Aurela Redenica | Unsplash License | https://unsplash.com/photos/VuN-RYI4XU4 |
-| counsel_room.jpg | 費用と期間の写真の3枚目（相談室の丸テーブルといす） | Pixabay | jraffin | Pixabay Content License | https://pixabay.com/photos/meeting-room-cable-four-chairs-2170534/ |
+| counsel_room.jpg | 費用と期間の写真の3枚目（相談室の机といす） | Pexels | Ivan Babydov | Pexels License | https://www.pexels.com/photo/desk-and-chairs-in-doctor-office-7789614/ |
 | cast.jpg | 初診相談の流れの写真の1枚目（輪ゴムでまとめた石膏の歯列模型） | Pixabay | Humusak | Pixabay Content License | https://pixabay.com/photos/teeth-models-gypsum-dentist-dental-797308/ |
 | reception.jpg | 初診相談の流れの写真の2枚目（窓際の待合のいす） | Pixabay | aldineiderios | Pixabay Content License | https://pixabay.com/photos/clinic-front-desk-architecture-1198337/ |
-| entrance.jpg | アクセス（木の枠のガラス戸の入口） | Pexels | Hiba Q. Omar | Pexels License | https://www.pexels.com/photo/a-wooden-framed-glass-door-of-the-house-14613660/ |
-| director.jpg | 院長あいさつ（診療台の横に立つ白衣の女性） | Unsplash | Ozkan Guner | Unsplash License | https://unsplash.com/photos/tU51A2WWwxw |
+| entrance.jpg | アクセス（金属枠のガラス張りの入口） | Unsplash | Anastasia Yaroshenko | Unsplash License | https://unsplash.com/photos/BtjNPYmqSPU |
+| director.jpg | 院長あいさつ（装置をつけた歯列模型を両手に持つ女性の手元） | Unsplash | Enis Yavuz | Unsplash License | https://unsplash.com/photos/3H8LuhoSbdc |
 
-`aligner.jpg`・`entrance.jpg` は3:2、`aligner_case.jpg` は4:3、`cast.jpg`・`reception.jpg` は16:9、`director.jpg` は4:5に、枠の縦横比に合わせて切り出してから縮小しました。
-`counsel.jpg`・`scan.jpg`・`clinic.jpg`・`counsel_room.jpg`・`braces.jpg` は枠と同じ縦横比なので、`hero_smile.jpg` は画面の幅で枠の縦横比が変わるので、切り出していません。
+`entrance.jpg` は3:2、`aligner_case.jpg`・`counsel_room.jpg` は4:3、`cast.jpg`・`reception.jpg` は16:9、`director.jpg` は4:5に、枠の縦横比に合わせて切り出してから縮小しました。
+`counsel.jpg`・`scan.jpg`・`aligner.jpg`・`clinic.jpg`・`braces.jpg` は枠と同じ縦横比なので、`hero_smile.jpg` は画面の幅で枠の縦横比が変わるので、切り出していません。
 
 写っている人は、この医院の患者さんや職員ではありません。
-Pexelsの利用条件は、写っている人が商品やサービスを推奨しているように見せる使い方を禁じています（`hero_smile.jpg` の女性と、`counsel.jpg` の手、`scan.jpg` の男性2人）。
-Unsplashの利用規約（5. 画像に対するライセンス供与）は、写っている商標やロゴ、人の肖像を使う権利をライセンスに含めていません（`director.jpg` の女性と患者）。
-`director.jpg` は、写真のページの撮影地の欄が「Turkey」で、タグにも「トルコ」があります。
-`director.jpg` には、白衣の胸の刺繍の名前、スニーカーの側面の旗の形の印、診療台の土台の銘板とCEの印、足元の操作器の「IPX4」の字が写っています。縮小した画像では、刺繍の名前と銘板と「IPX4」の字は読めません。旗の形の印は形が分かり、CEの印は拡大すると形が分かる程度です。
-`clinic.jpg` には、機器の銘柄の印（DENTECH・PLANMECA・LG）と、英語の掲示（二次元コードを並べた札・注意書き）が写っています。
-`scan.jpg` には、モニターの枠のhpの印と、画面の操作欄のロシア語の小さな文字（縮小した画像では読めません）が写っています。
+Pexelsの利用条件は、写っている人が商品やサービスを推奨しているように見せる使い方を禁じています（`hero_smile.jpg` の女性と白衣の人、`counsel.jpg` の手）。
+Unsplashの利用規約（5. 画像に対するライセンス供与）は、写っている商標やロゴ、人の肖像を使う権利をライセンスに含めていません（`director.jpg`・`scan.jpg`・`aligner.jpg` の女性）。
+`hero_smile.jpg` には、白衣の胸に刺繍された星形のマークと「MEDICAL SER…」の字が写っています。幅1120px以下の画面では、刺繍が最初の画面の左上に出て、タブレットで見ると字が読めます（幅390pxの携帯では小さくて読めません）。幅1280px以上では、写真の上の端より外に出て見えません。
+`clinic.jpg` には、ロシア語で書かれた札と箱が写っています。棚の上に置いた箱の札に「…ксия」、ガラス戸の棚に入った消毒剤の箱に「ГИПОХЛОРАН-3」とあり、ワゴンに載せた容器にも札があります。縮小した画像では、棚に置いた箱の札だけ字の形が分かり、ほかは読めません。
+`counsel_room.jpg` には、机に置いた化粧品の箱とノートに「soskin」の字が写っています。縮小した画像では読めません。
+`scan.jpg` はスキャナーの胴に、`director.jpg` は胸ポケットの縁に付いた札に薄い字がありますが、元の写真でも読めません。
+`entrance.jpg` は左上の端に、隣の区画の看板の光る字が2つほど、写真の端で切れて写っています。字の中まで白く飛んでいて、元の写真でも読めません。
 実案件では、医院で撮った写真（写る人の同意つき）に差し替えてください。
 
 ### braces.jpgの表示（CC BY 2.0）
@@ -48,5 +49,5 @@ Unsplashの利用規約（5. 画像に対するライセンス供与）は、写
 
 | 借りたもの | 使用箇所 | 版と読み込み先 | 利用条件 |
 |---|---|---|---|
-| Font Awesome Free | 上部の医院名の左の印（tooth）、WEB予約のボタン（calendar）、携帯の幅のメニューのボタン（bars）、お悩みとご質問の一覧の印（circle-check）と矢印（chevron-right）、初診相談の流れの段のあいだの矢印（caret-right）、ブラウザのタブに出る印（tooth） | 6.7.2。CSSはcdnjs（https://cdnjs.cloudflare.com/ajax/libs/font-awesome/6.7.2/css/all.min.css）、タブの印はjsDelivr（https://cdn.jsdelivr.net/npm/@fortawesome/fontawesome-free@6.7.2/svgs/solid/tooth.svg） | アイコンはCC BY 4.0、フォントはSIL OFL 1.1、CSSはMIT License（https://fontawesome.com/license/free）。表示は、読み込むCSSとSVGの中の著作権表示で足りる（配布物のLICENSE.txtの「Attribution」の項） |
+| Font Awesome Free | 上部の医院名の左のアイコン（tooth）、初診相談のお申し込みのボタン（calendar）、携帯の幅のメニューのボタン（bars）、お悩みとご質問の一覧のアイコン（circle-question）と矢印（chevron-right）、初診相談の流れの段のあいだの矢印（caret-right）、ブラウザのタブに出るアイコン（tooth） | 6.7.2。CSSはcdnjs（https://cdnjs.cloudflare.com/ajax/libs/font-awesome/6.7.2/css/all.min.css）、タブのアイコンはjsDelivr（https://cdn.jsdelivr.net/npm/@fortawesome/fontawesome-free@6.7.2/svgs/solid/tooth.svg） | アイコンはCC BY 4.0、フォントはSIL OFL 1.1、CSSはMIT License（https://fontawesome.com/license/free）。表示は、読み込むCSSとSVGの中の著作権表示で足りる（配布物のLICENSE.txtの「Attribution」の項） |
 | Googleマップの埋め込み | 診療時間のご案内の右の地図（中心は広島電鉄の袋町電停） | Googleマップで袋町駅（電停・広島市中区袋町5）を開き、「共有」→「地図を埋め込む」で出たiframe（2026-09-28） | 埋め込みに許可は要らない。地図の中に出るGoogleのロゴと地図データの表示は、消したり隠したりしない（https://about.google/brand-resource-center/products-and-services/geo-guidelines/） |
